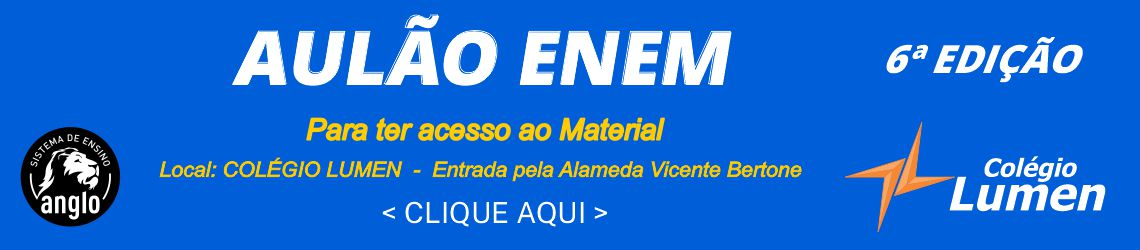
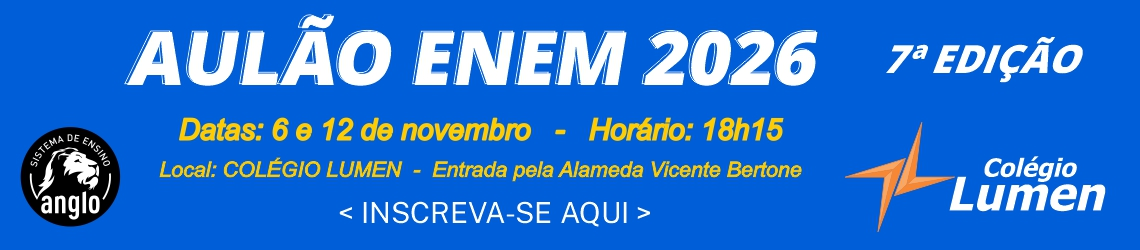
fotos

diff --git a/aprovados/2027.html b/aprovados/2027.html
@@ -1,0 +1,77 @@
+---
+layout: page
+title: Aprovados
+permalink: /aprovados/2027
+---
+
+<div class="textoaprov">
+<center><h1>Parabéns aos aprovados 2027!</h1>
+
+<table class=MsoNormalTable border=0 cellpadding=0>
+ 
+
+    <tr style='mso-yfti-irow:0;mso-yfti-firstrow:yes'>
+  <td colspan=3 style='padding:.75pt .75pt .75pt 120pt'>
+  <strong><span style='font-family:"Tahoma","sans-serif";
+  mso-fareast-font-family:"Times New Roman"'><br><br>VESTIBULAR DE VERÃO</span></strong><span
+  style='font-family:"Tahoma","sans-serif";mso-fareast-font-family:"Times New Roman"'><o:p></o:p></span><br><br>
+  </td>
+  <strong>
+   </tr>
+
+
+
+
+
+
+
+
+<tr style='mso-yfti-irow:16'>
+ <td colspan=3 style='padding:.75pt .75pt .75pt .75pt'>
+<b><span style='font-family:"Tahoma","sans-serif";
+  mso-fareast-font-family:"Times New Roman"'><br>
+  <strong><span style='font-family:"Tahoma","sans-serif"'>UNINOVE</span></strong></span></b><span
+  style='font-family:"Tahoma","sans-serif";mso-fareast-font-family:"Times New Roman"'><o:p></o:p></span>
+  </td>
+ </tr>
+ <tr style='mso-yfti-irow:16'>
+  <td style='padding:.75pt .75pt .75pt .75pt'>
+ <span style='font-family:"Tahoma","sans-serif";mso-fareast-font-family:
+  "Times New Roman"'>Victor Yuji Piva Hamamoto<o:p></o:p></span>
+  </td>
+  <td style='padding:.75pt .75pt .75pt 20pt'>
+  <span style='font-family:"Tahoma","sans-serif";mso-fareast-font-family:
+  "Times New Roman"'>Medicina<o:p></o:p></span>
+  </td>
+  </tr>
+ 
+
+
+
+
+<tr style='mso-yfti-irow:16'>
+ <td colspan=3 style='padding:.75pt .75pt .75pt .75pt'>
+<b><span style='font-family:"Tahoma","sans-serif";
+  mso-fareast-font-family:"Times New Roman"'><br>
+  <strong><span style='font-family:"Tahoma","sans-serif"'>UNISAGRADO</span></strong></span></b><span
+  style='font-family:"Tahoma","sans-serif";mso-fareast-font-family:"Times New Roman"'><o:p></o:p></span>
+  </td>
+ </tr>
+ <tr style='mso-yfti-irow:16'>
+  <td style='padding:.75pt .75pt .75pt .75pt'>
+ <span style='font-family:"Tahoma","sans-serif";mso-fareast-font-family:
+  "Times New Roman"'>Maria Isabel Travençolo David<o:p></o:p></span>
+  </td>
+  <td style='padding:.75pt .75pt .75pt 20pt'>
+  <span style='font-family:"Tahoma","sans-serif";mso-fareast-font-family:
+  "Times New Roman"'>Arquitetura e Urbanismo<o:p></o:p></span>
+  </td>
+  </tr>
+
+
+
+ </table></center>
+ <br>
+ </div>
+
+ 

diff --git a/fotos/em.html b/fotos/em.html
@@ -47,6 +47,41 @@ function show() {
 
 <ul id="myUL">
     <li>
+                <a href="https://photos.app.goo.gl/6Qp4nggq7FJBTNPi9" target="_blank"><img class="example-image" src="/galeria/2026/eventos/23.jpg">
+                    <p>
+                       Sarau - 2026
+                    </p>
+                </a>
+     </li>
+    <li>
+                <a href="https://photos.app.goo.gl/WJAHRepQKpXSw1Zu6" target="_blank"><img class="example-image" src="/galeria/2026/ef2/12.jpeg">
+                    <p>
+                       Visita na Darma 7º EF - 2026
+                    </p>
+                </a>
+     </li>
+    <li>
+                <a href="https://photos.app.goo.gl/Jqjesnz4meG4qRWA7" target="_blank"><img class="example-image" src="/galeria/2026/ef2/11.jpg">
+                    <p>
+                       Premiação APEG - 2026
+                    </p>
+                </a>
+     </li>
+    <li>
+                <a href="https://photos.app.goo.gl/PSzLQgPPDAkWSsXFA" target="_blank"><img class="example-image" src="/galeria/2026/ef2/10.jpeg">
+                    <p>
+                       Jogos Escolares Unimed SELJ Marília - 2026
+                    </p>
+                </a>
+     </li>
+     <li>
+                <a href="https://photos.app.goo.gl/vgXhfW8wxvFcXgMP6" target="_blank"><img class="example-image" src="/galeria/2026/ef2/9.jpeg">
+                    <p>
+                       Laboratório de Ciências do 6º EF - Sistema muscular e esquelético - 2026
+                    </p>
+                </a>
+     </li>
+    <li>
                 <a href="https://photos.app.goo.gl/84r8Ynh87o5HaTEPA" target="_blank"><img class="example-image" src="/galeria/2026/ef2/8.jpg">
                     <p>
                        Unimar Portas Abertas - 2026

diff --git a/index.html b/index.html
@@ -91,7 +91,7 @@ permalink: /
 
 </div>-->
 
-<!--<center><a href="https://drive.google.com/file/d/1_eLwhGBE3mb_cxko-s552KBCZplolfxu/view?usp=sharing" target="_blank"><img src="/img/banner1.jpg"></a></center><br>-->
+<center><a href="https://forms.gle/Gve6rc3p6NNKhwUq5" target="_blank"><img src="/img/banner1.jpg"></a></center><br>
 
 <center><a href="https://login.plurall.net/login" target="_blank" class="area-aluno ajust"><img src="/img/plurall.jpg"></a>
 
@@ -195,10 +195,10 @@ permalink: /
     <div class="between-sections row">
         <h2 class="home-title">Últimos Projetos e Eventos</h2>
         <div>
+            <a href="https://photos.app.goo.gl/6Qp4nggq7FJBTNPi9" target="_blank"><b>Sarau 2026</b></a>
             <a href="https://photos.app.goo.gl/7A6yBKTnQUMUQNMg9" target="_blank"><b>Festa Junina 2026</b></a>
             <a href="https://photos.app.goo.gl/bTUia7zR49xXyKvUA" target="_blank"><b>Feira do Conhecimento 2026</b></a>
             <a href="https://photos.app.goo.gl/8JomV9Bq6M6mKLur8" target="_blank"><b>Dia da Família 2026</b></a>
-            <a href="https://photos.app.goo.gl/tkZp1XM3HGfdHTK7A" target="_blank"><b>Sarau 2025</b></a>
         </div>
     </div>
 </div>

diff --git a/veja2026/infantil2.html b/veja2026/infantil2.html
@@ -83,6 +83,13 @@ permalink: /veja2026/infantil2
         </h2>    
         <ul>
             <li>
+                <a href="https://photos.app.goo.gl/fT2BJuz9jKdbzHeM7" target="_blank"><img class="example-image" src="/galeria/2026/i2/11.jpeg">
+                    <p>
+                     Projeto das Cores Secundárias!
+                    </p>
+                </a>
+            </li>
+            <li>
                 <a href="https://photos.app.goo.gl/nuZgFEFCU8Bvo2cUA" target="_blank"><img class="example-image" src="/galeria/2026/eventos/20.jpg">
                     <p>
                         Semana da Criança: Brinquedos Infláveis e Algodão Doce

diff --git a/veja2026/infantil1.html b/veja2026/infantil1.html
@@ -84,6 +84,13 @@ permalink: /veja2026/infantil1
         </h2>
         <ul>
             <li>
+                <a href="https://photos.app.goo.gl/cQ28z66dZ77ydgTJ7" target="_blank"><img class="example-image" src="/galeria/2026/i1/16.jpeg">
+                    <p>
+                      Projeto das Cores Primárias
+                    </p>
+                </a>
+            </li>
+            <li>
                 <a href="https://photos.app.goo.gl/nuZgFEFCU8Bvo2cUA" target="_blank"><img class="example-image" src="/galeria/2026/eventos/20.jpg">
                     <p>
                         Semana da Criança: Brinquedos Infláveis e Algodão Doce

diff --git a/_includes/header.html b/_includes/header.html
@@ -116,6 +116,7 @@
                              <div class="SelecYear">
                                 <select id="Selectd" onclick="redirect()">
                                     <option value="0" disabled selected>Aprovados</option>
+                                    <option value="2027">2027</option>
                                     <option value="2026">2026</option>
                                     <option value="2025">2025</option>
                                     <option value="2024">2024</option>
